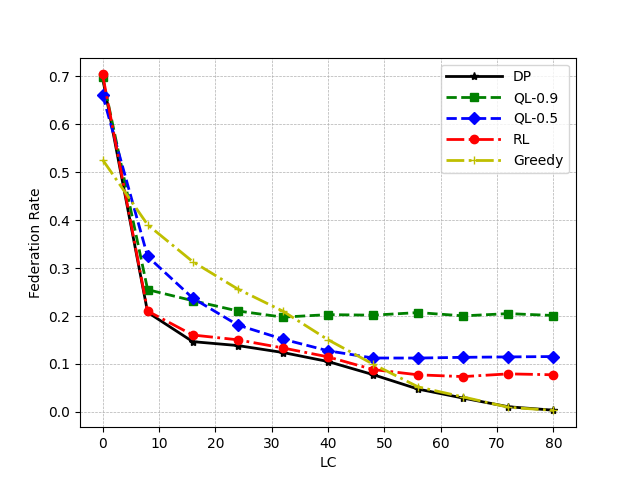
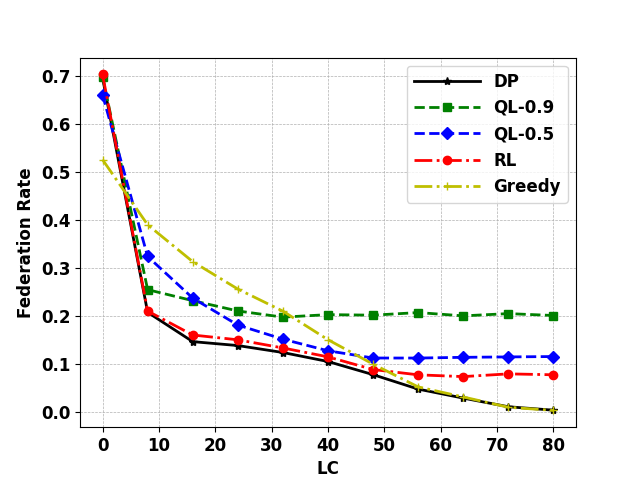
new plots

diff --git a/Single-Provider-Federation/quota-rejection/simulations/res_plotter_gr_dp_2ql_rl.py b/Single-Provider-Federation/quota-rejection/simulations/res_plotter_gr_dp_2ql_rl.py
@@ -3,6 +3,7 @@
 import json
 from numpy import *
 import math
+import matplotlib
 import matplotlib.pyplot as plt
 import sys
 
@@ -43,6 +44,13 @@ for data in results:
     QL_05.append(data["QL_05"])
     RL.append(data["RL"])
 
+
+font = {
+        'weight' : 'bold',
+        'size'   : 12}
+
+matplotlib.rc('font', **font)
+plt.rcParams["axes.labelweight"] = "bold"
 
 fig, ax = plt.subplots()
 plt.grid(linestyle="--", linewidth=0.5)
